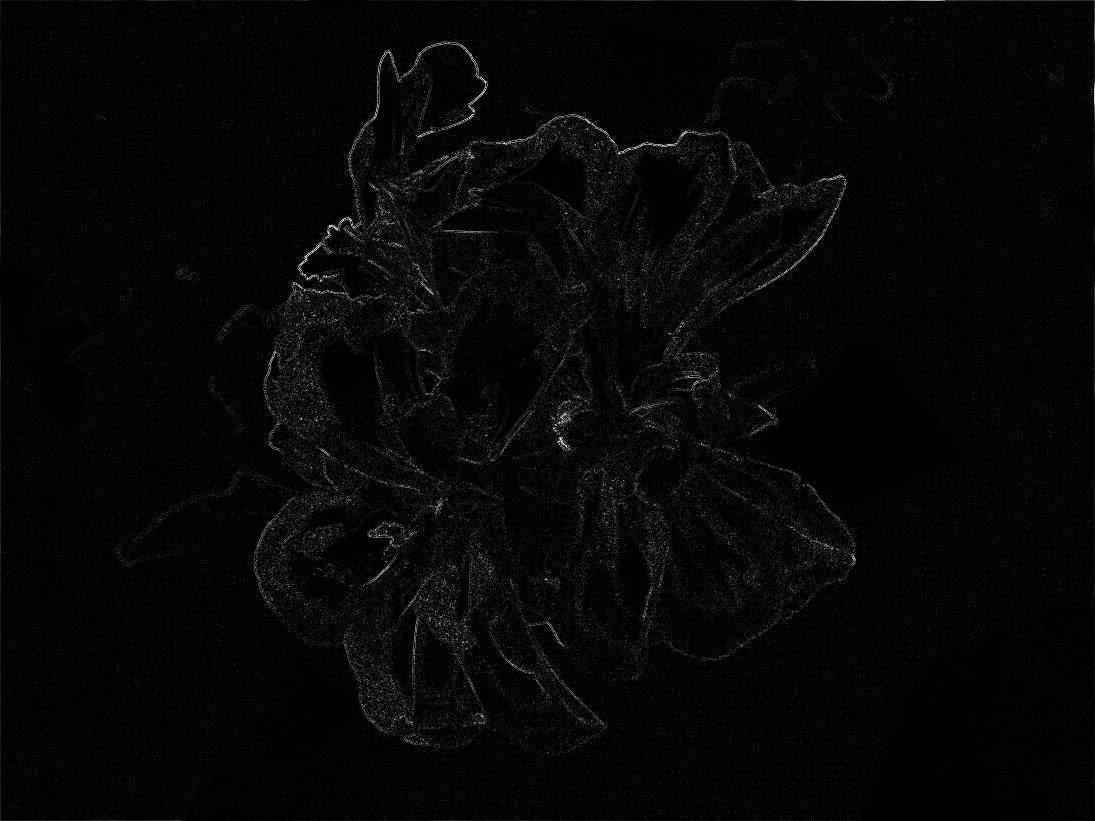
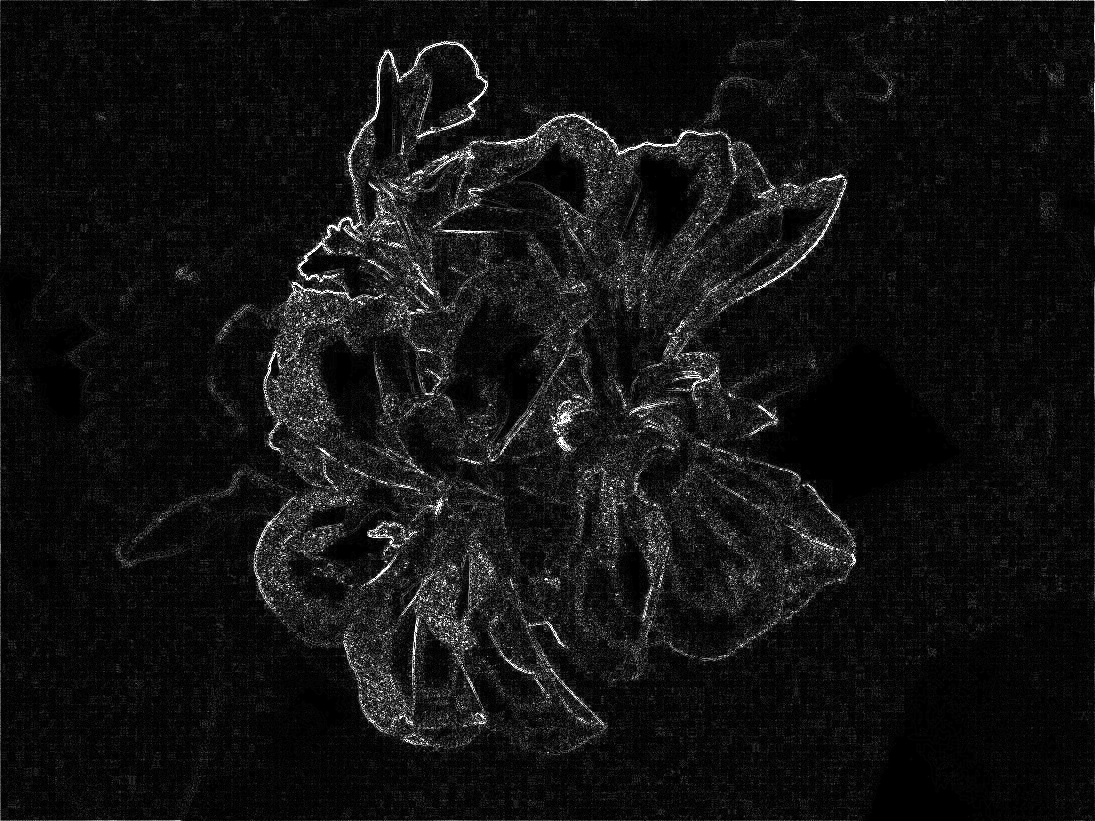
Added function for writing image to file.

diff --git a/VIZSul2Proj/main.cpp b/VIZSul2Proj/main.cpp
@@ -8,6 +8,7 @@ using namespace std;
 
 #define LAP_KERNEL_OUTER 1
 #define LAP_KERNEL_INNER -4
+#define SCALE_CONST 3
 
 Mat applyLaplace(Mat src) {
 	Mat  src_gray, dst;
@@ -41,6 +42,7 @@ unsigned char scalePixelVal(int pixelValue) {
 
 unsigned char scalePixelValSymmetric(int pixelValue)
 {
+	pixelValue *= SCALE_CONST;
 	if (pixelValue < 0) {
 		pixelValue = pixelValue*(-1);
 	}
@@ -85,20 +87,23 @@ cv::Mat applyLaplaceProg(cv::Mat src) {
 	return changed;
 }
 
-cv::Mat substractImgs(cv::Mat img1, cv::Mat img2) {
-	cv::Mat result;
-	return result;
-}
+bool writeImageToFile(cv::Mat img) {
+	vector<int> compression_params;
+	compression_params.push_back(CV_IMWRITE_PNG_COMPRESSION);
+	compression_params.push_back(9);
+	try {
+		imwrite("vystup.png", img, compression_params);
+	}
+	catch (runtime_error& ex) {
+		fprintf(stderr, "Exception converting image to PNG format: %s\n", ex.what());
+		return false;
+	}
 
-bool imgMatch(cv::Mat img1, cv::Mat img2) {
-	return false;
+	return true;
 }
 
 int main(){
-	//test branch
 	Mat imageOrig, imgLaplaceCV, imagLaplaceProg;
-	VideoCapture cap(0);
-	//imageOrig = imread("Autobus.bmp", IMREAD_COLOR);
 
 	imageOrig = imread("kvet.jpg", IMREAD_COLOR);
 
@@ -118,17 +123,8 @@ int main(){
 	imshow("OpenCV laplace", imgLaplaceCV); // Show our image inside it.
 	imshow("Programed laplace", imagLaplaceProg); // Show our image inside it.
 
-													//zapisanie obrazka so suboru
-	vector<int> compression_params;
-	compression_params.push_back(CV_IMWRITE_PNG_COMPRESSION);
-	compression_params.push_back(9);
-	try {
-		imwrite("vystup.png", imagLaplaceProg, compression_params);
-	}
-	catch (runtime_error& ex) {
-		fprintf(stderr, "Exception converting image to PNG format: %s\n", ex.what());
-		return 1;
-	}
+	//zapisanie obrazka do suboru
+	writeImageToFile(imagLaplaceProg);
 
 	waitKey(0); // Wait for a keystroke in the window
 
